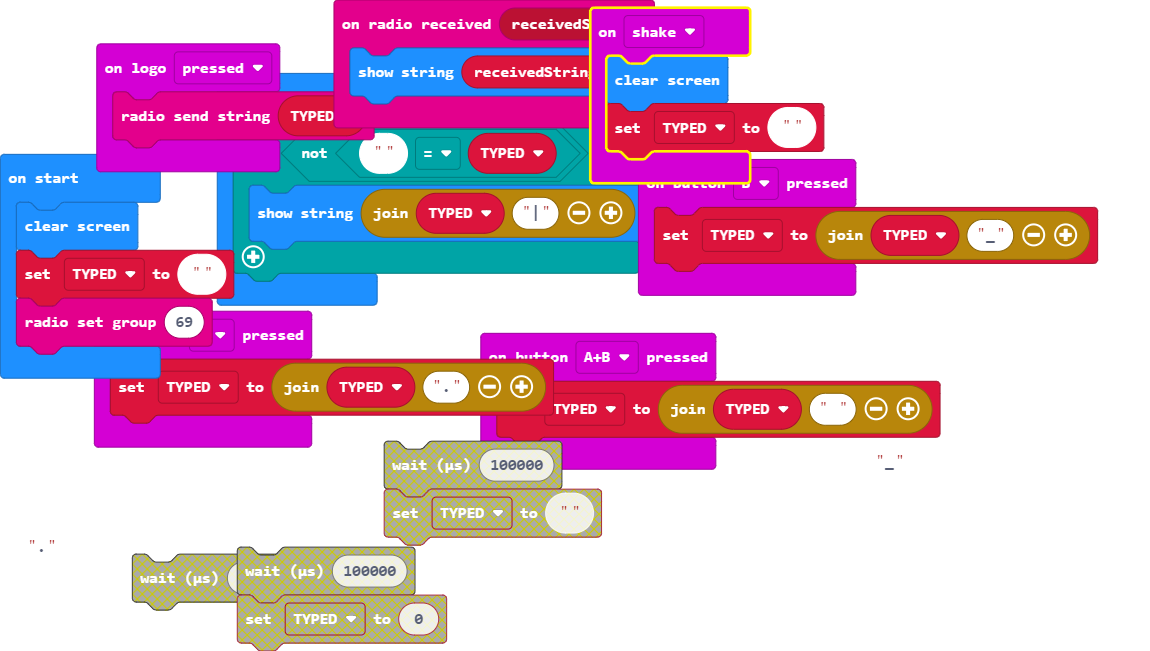
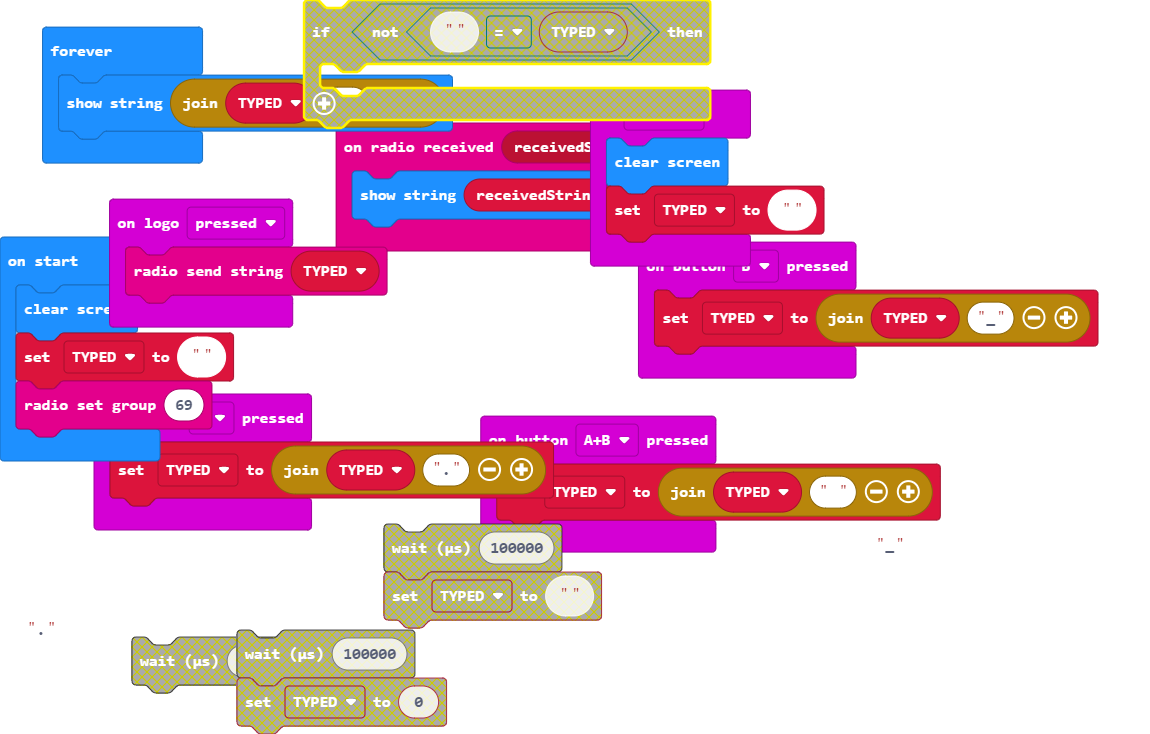
Update main.blocks, main.ts

diff --git a/main.ts b/main.ts
@@ -22,7 +22,5 @@ basic.clearScreen()
 TYPED = ""
 radio.setGroup(69)
 basic.forever(function () {
-    if (!("" == TYPED)) {
-        basic.showString("" + TYPED + "|")
-    }
+    basic.showString("" + TYPED + "|")
 })
